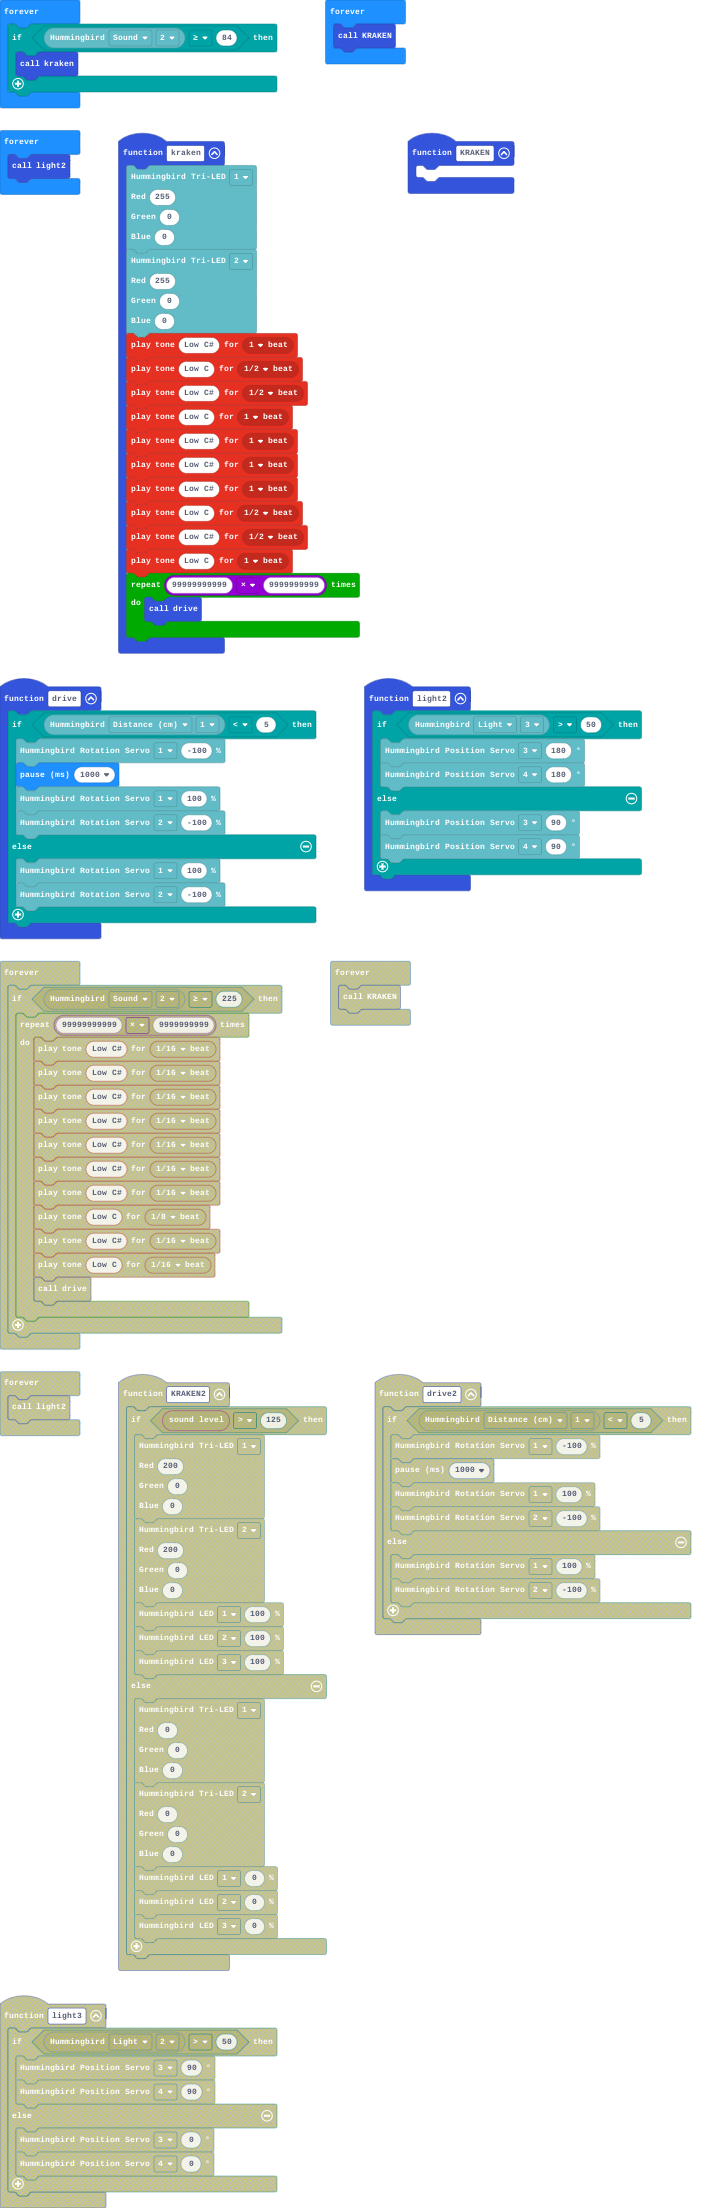
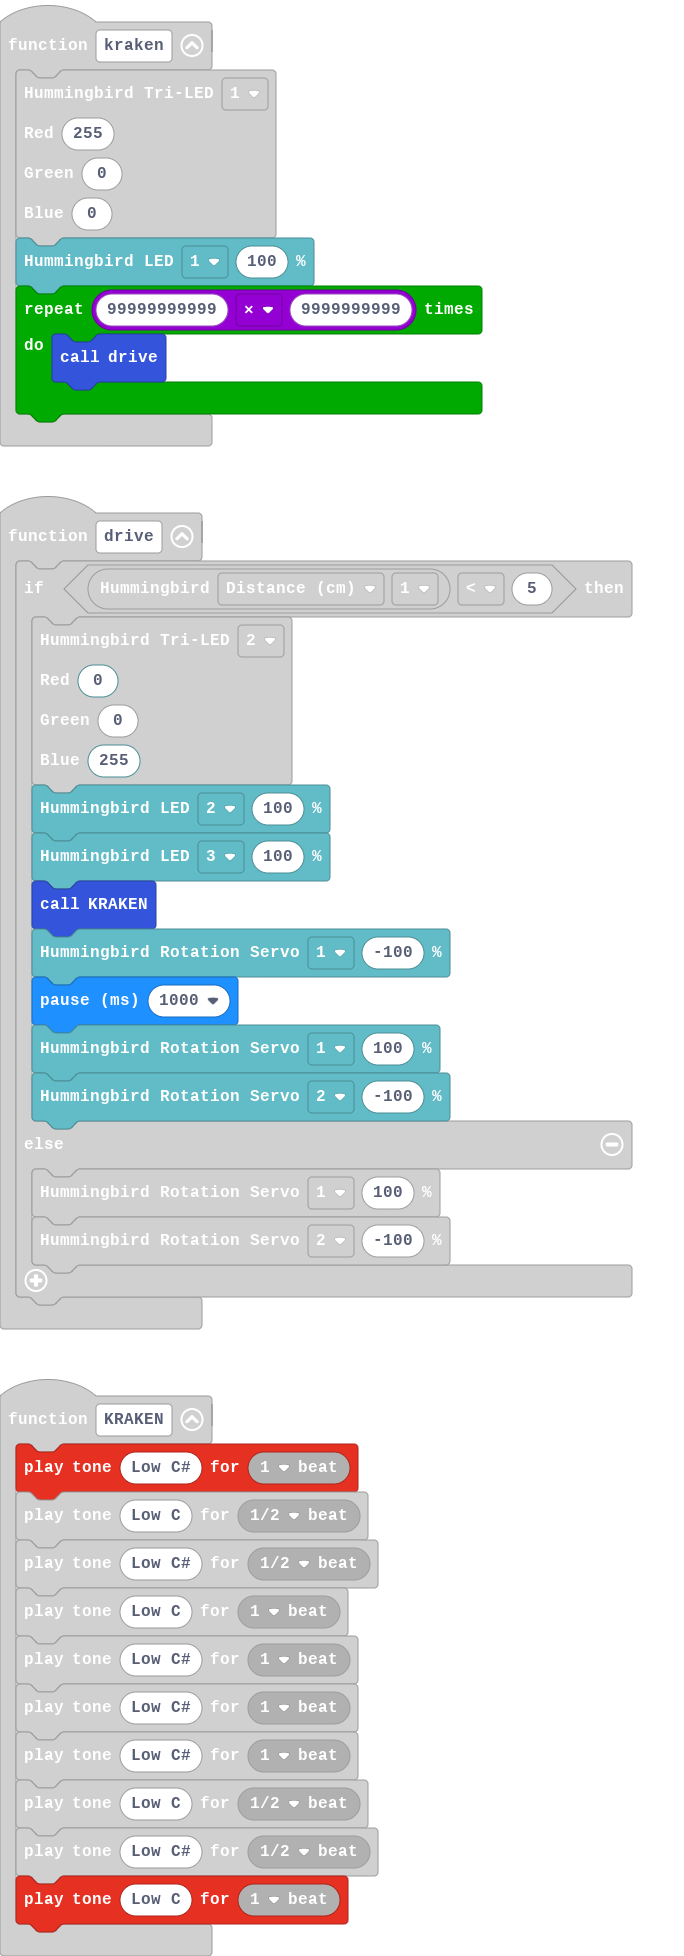
yee

diff --git a/main.ts b/main.ts
@@ -5,28 +5,22 @@ function kraken () {
     0,
     0
     )
-    hummingbird.setTriLED(
-    TwoPort.Two,
-    255,
-    0,
-    0
-    )
-    music.playTone(139, music.beat(BeatFraction.Whole))
-    music.playTone(131, music.beat(BeatFraction.Half))
-    music.playTone(139, music.beat(BeatFraction.Half))
-    music.playTone(131, music.beat(BeatFraction.Whole))
-    music.playTone(139, music.beat(BeatFraction.Whole))
-    music.playTone(139, music.beat(BeatFraction.Whole))
-    music.playTone(139, music.beat(BeatFraction.Whole))
-    music.playTone(131, music.beat(BeatFraction.Half))
-    music.playTone(139, music.beat(BeatFraction.Half))
-    music.playTone(131, music.beat(BeatFraction.Whole))
+    hummingbird.setLED(ThreePort.One, 100)
     for (let index = 0; index < 99999999999 * 9999999999; index++) {
         drive()
     }
 }
 function drive () {
     if (hummingbird.getSensor(SensorType.Distance, ThreePort.One) < 5) {
+        hummingbird.setTriLED(
+        TwoPort.Two,
+        0,
+        0,
+        255
+        )
+        hummingbird.setLED(ThreePort.Two, 100)
+        hummingbird.setLED(ThreePort.Three, 100)
+        KRAKEN()
         hummingbird.setRotationServo(FourPort.One, -100)
         basic.pause(1000)
         hummingbird.setRotationServo(FourPort.One, 100)
@@ -37,7 +31,16 @@ function drive () {
     }
 }
 function KRAKEN () {
-	
+    music.playTone(139, music.beat(BeatFraction.Whole))
+    music.playTone(131, music.beat(BeatFraction.Half))
+    music.playTone(139, music.beat(BeatFraction.Half))
+    music.playTone(131, music.beat(BeatFraction.Whole))
+    music.playTone(139, music.beat(BeatFraction.Whole))
+    music.playTone(139, music.beat(BeatFraction.Whole))
+    music.playTone(139, music.beat(BeatFraction.Whole))
+    music.playTone(131, music.beat(BeatFraction.Half))
+    music.playTone(139, music.beat(BeatFraction.Half))
+    music.playTone(131, music.beat(BeatFraction.Whole))
 }
 function light2 () {
     if (hummingbird.getSensor(SensorType.Light, ThreePort.Three) > 50) {
@@ -50,12 +53,12 @@ function light2 () {
 }
 hummingbird.startHummingbird()
 basic.forever(function () {
+	
+})
+basic.forever(function () {
     if (hummingbird.getSensor(SensorType.Sound, ThreePort.Two) >= 84) {
         kraken()
     }
-})
-basic.forever(function () {
-    KRAKEN()
 })
 basic.forever(function () {
     light2()
